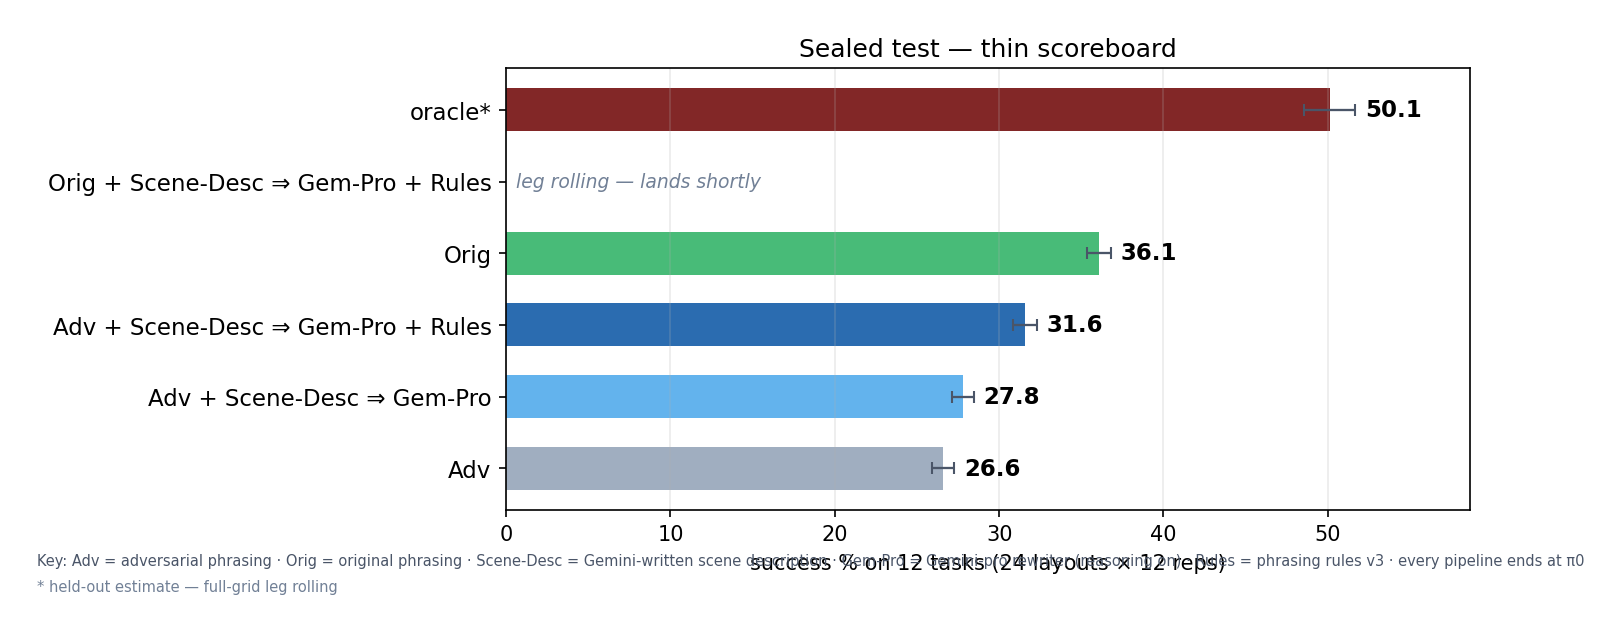
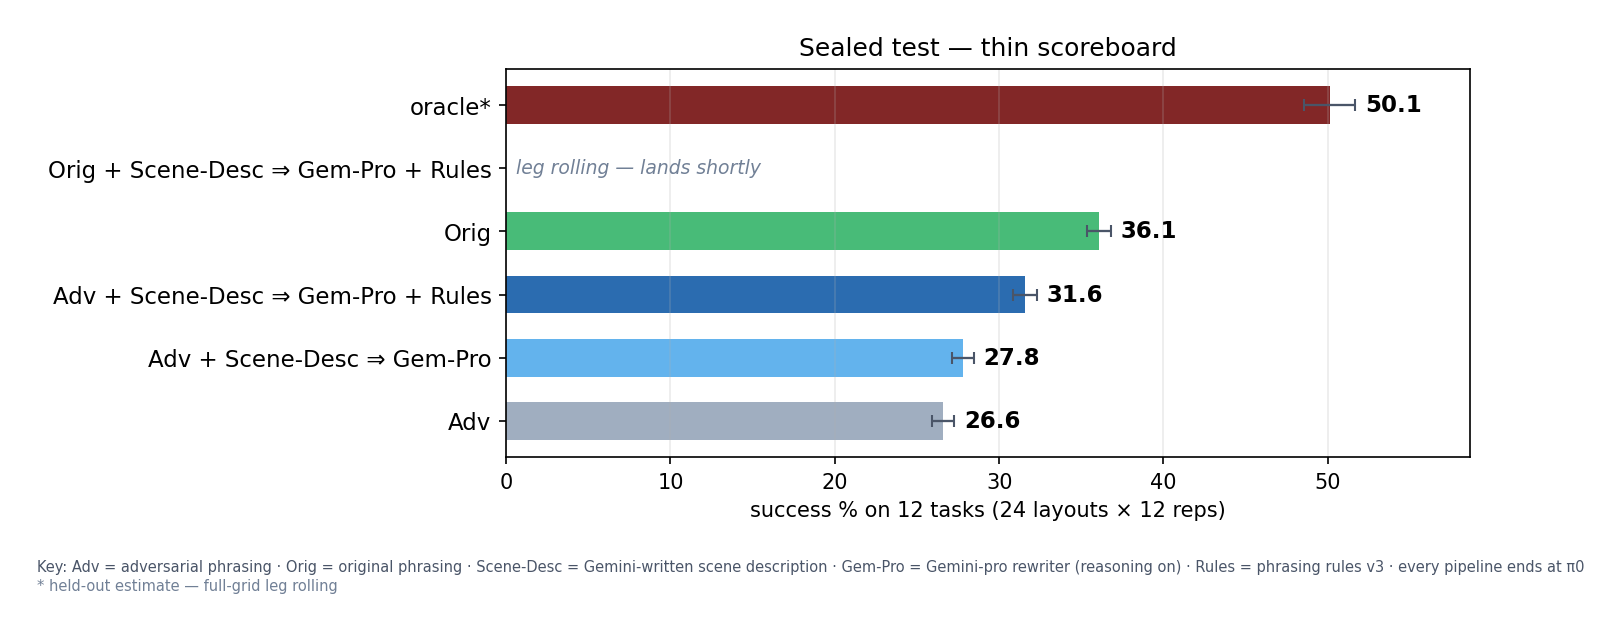
charts: reserve bottom margin for key footer

diff --git a/scripts/make_sealed_thin.py b/scripts/make_sealed_thin.py
@@ -74,9 +74,9 @@ ax.set_xlabel("success % on 12 tasks (24 layouts × 12 reps)")
 ax.set_title("Sealed test — thin scoreboard")
 ax.grid(axis="x", alpha=0.25)
 ax.set_xlim(0, max((r[1] or 0) + (r[2] or 0) for r in rows) + 7)
-fig.text(0.01, 0.055, "Key: Adv = adversarial phrasing · Orig = original phrasing · Scene-Desc = Gemini-written scene description · Gem-Pro = Gemini-pro rewriter (reasoning on) · Rules = phrasing rules v3 · every pipeline ends at π0", fontsize=7, color="#4a5568")
+fig.text(0.01, 0.045, "Key: Adv = adversarial phrasing · Orig = original phrasing · Scene-Desc = Gemini-written scene description · Gem-Pro = Gemini-pro rewriter (reasoning on) · Rules = phrasing rules v3 · every pipeline ends at π0", fontsize=7, color="#4a5568")
 if any("*" in r[0] for r in rows):
-    fig.text(0.01, 0.01, "* held-out estimate — full-grid leg rolling", fontsize=7, color="#718096")
-fig.tight_layout()
+    fig.text(0.01, 0.012, "* held-out estimate — full-grid leg rolling", fontsize=7, color="#718096")
+fig.tight_layout(rect=[0, 0.09, 1, 1])
 fig.savefig("results/charts/sealed_thin.png", dpi=150, bbox_inches="tight", pad_inches=0.25)
 print("chart -> results/charts/sealed_thin.png")

diff --git a/scripts/make_phrasing_ladder.py b/scripts/make_phrasing_ladder.py
@@ -79,7 +79,7 @@ ax.set_xlabel(f"success % on {len(tasks)} tasks")
 ax.set_title("What phrasing recovers — the intervention ladder (sealed test)")
 ax.grid(axis="x", alpha=0.25)
 ax.set_xlim(0, max(v + e for v, e in zip(vals, errs)) + 6)
-fig.text(0.01, 0.01, "Key: Adv = adversarial phrasing · Orig = original phrasing · Scene-Desc = Gemini-written scene description · Gem-Pro = Gemini-pro (reasoning on) · Qwen = frozen Qwen3.5-9B · Rules = phrasing rules v3 · every pipeline ends at π0", fontsize=7, color="#4a5568")
-fig.tight_layout()
+fig.text(0.01, 0.02, "Key: Adv = adversarial phrasing · Orig = original phrasing · Scene-Desc = Gemini-written scene description · Gem-Pro = Gemini-pro (reasoning on) · Qwen = frozen Qwen3.5-9B · Rules = phrasing rules v3 · every pipeline ends at π0", fontsize=7, color="#4a5568")
+fig.tight_layout(rect=[0, 0.07, 1, 1])
 fig.savefig("results/charts/sealed_phrasing_ladder.png", dpi=150, bbox_inches="tight", pad_inches=0.25)
 print("chart -> results/charts/sealed_phrasing_ladder.png")
